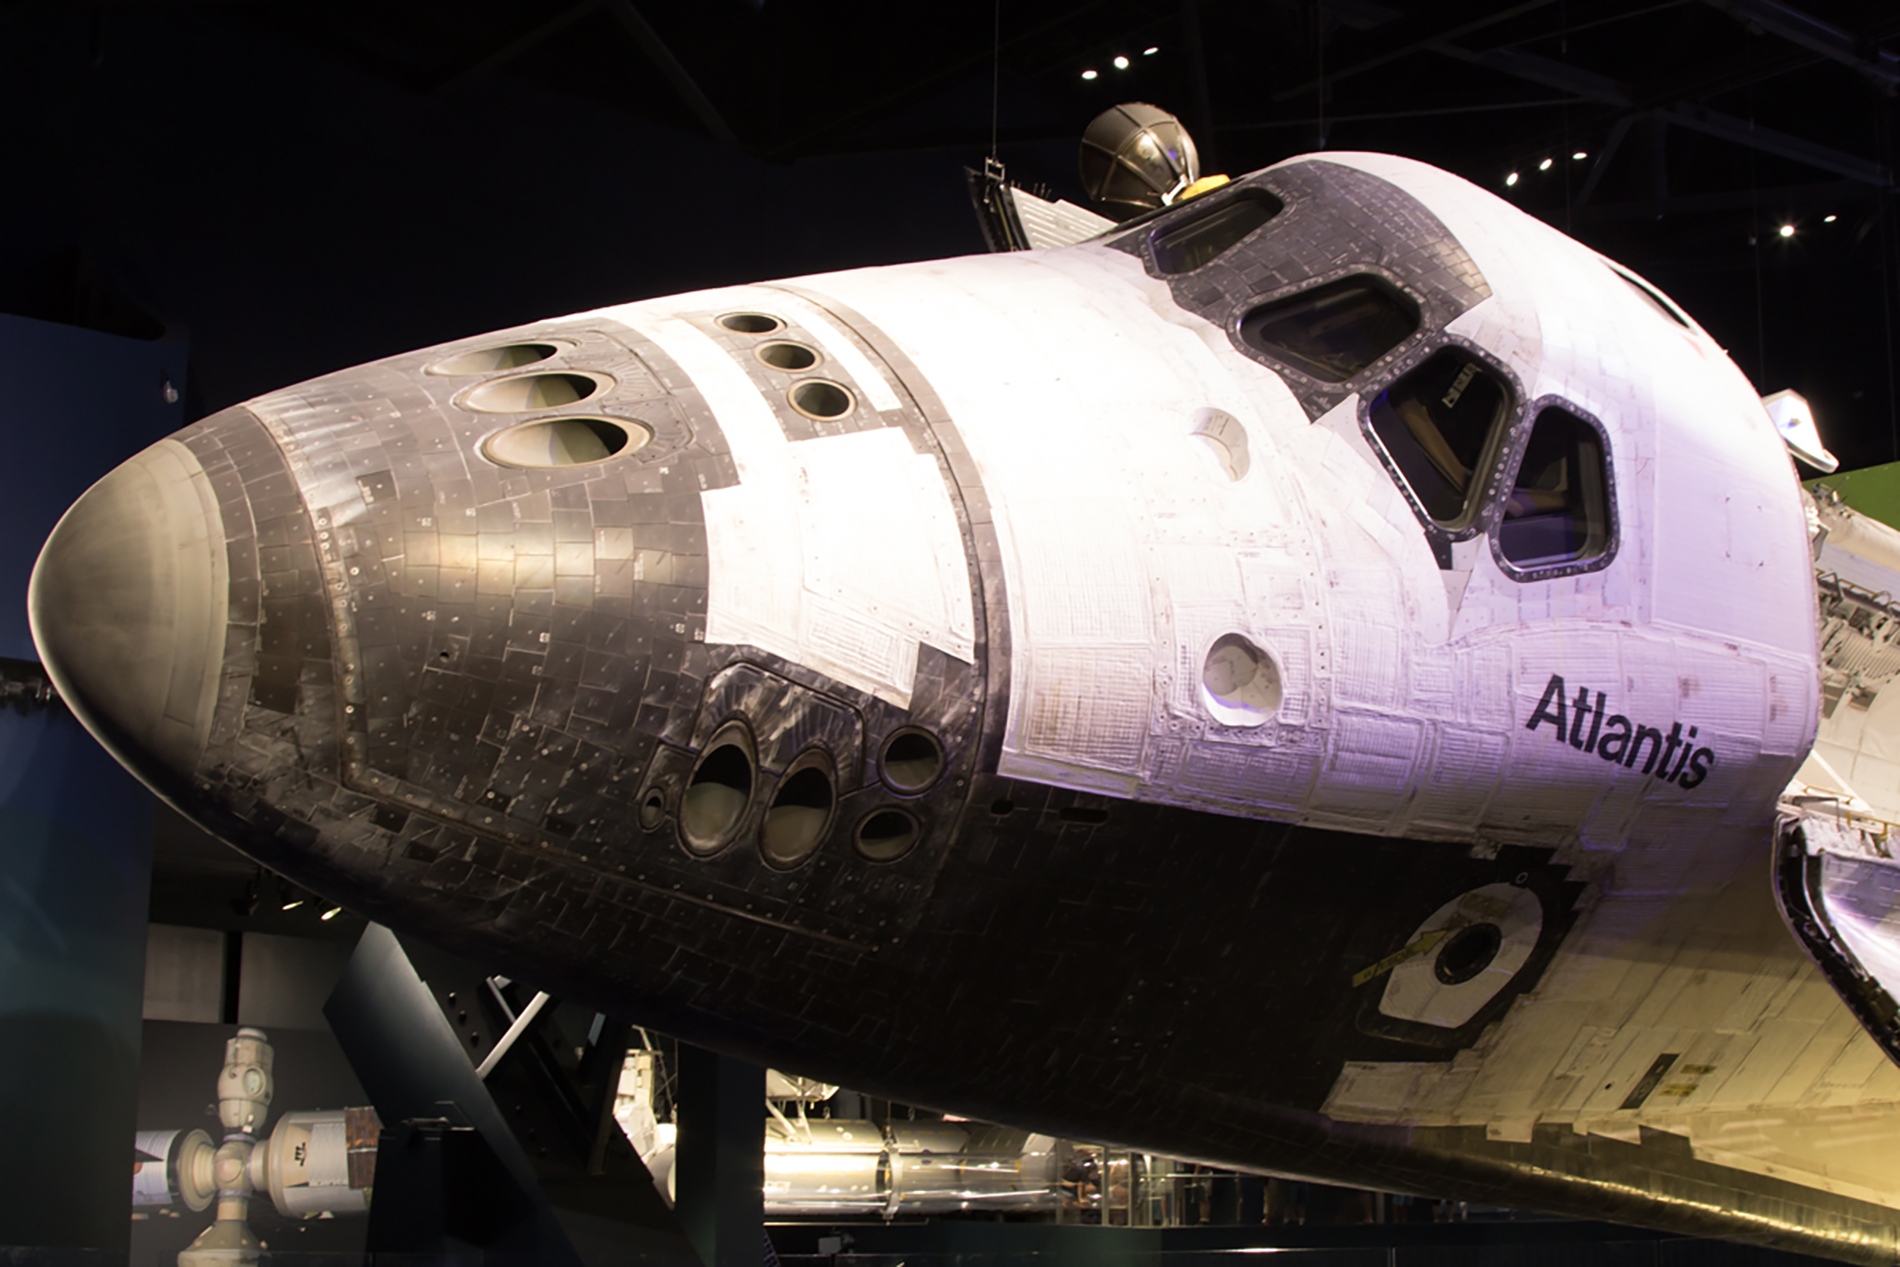
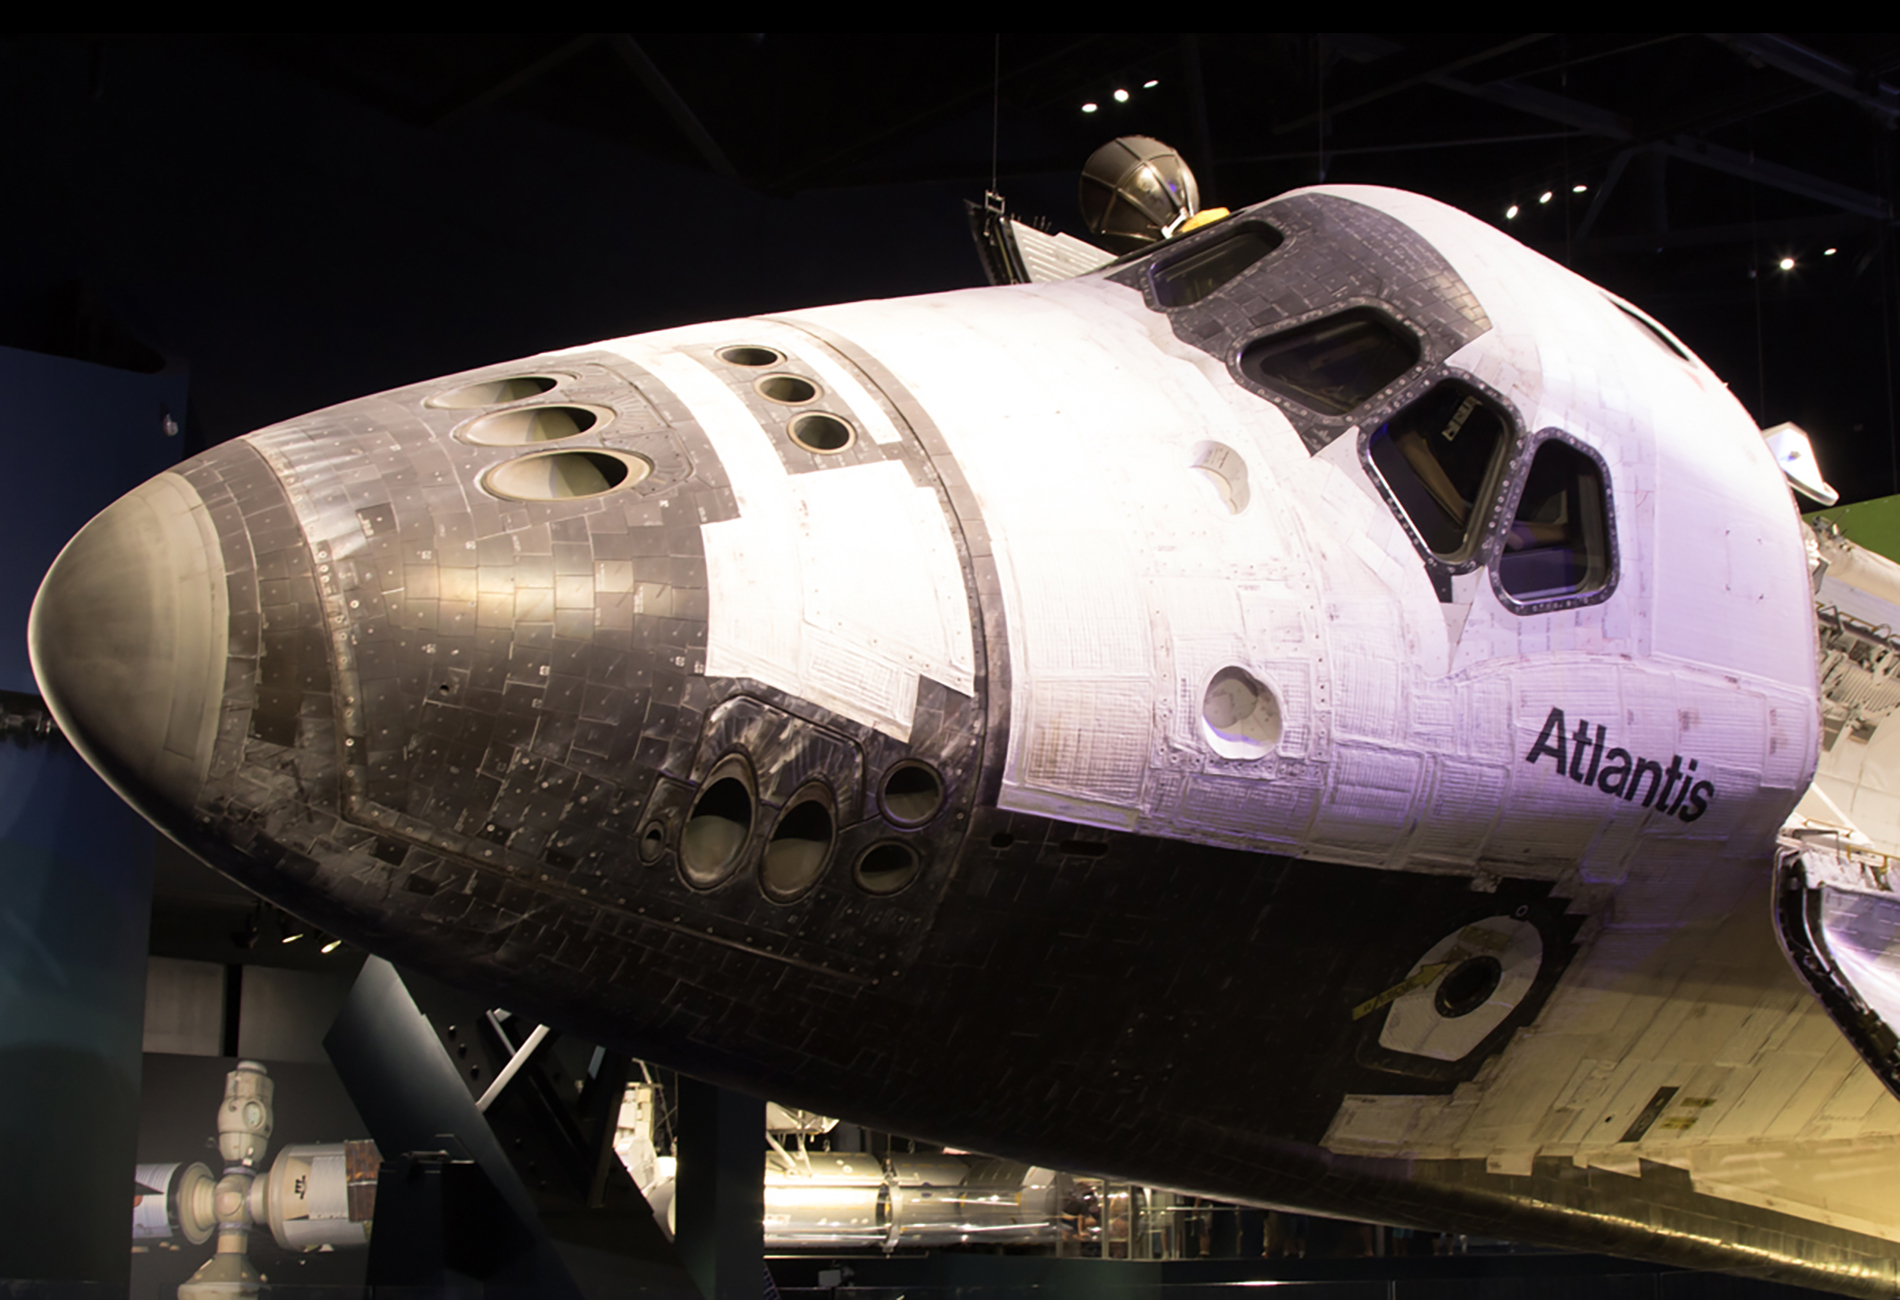
Commit before End Mentor meeting

diff --git a/index.html b/index.html
@@ -87,6 +87,9 @@
             <a href="https://apod.nasa.gov/apod/archivepix.html" class="paralink" target="blank">Click here</a> <i class='fa fa-external-link' aria-hidden='true'></i> to view all images archived since 1995.</p>
         </div>
       </div>
+      <div class="row" id="apod-error-row">
+        <div class="col-12 errorMessage" id="apod-error-message"></div>
+      </div>
       <div class="row">
         <div class="col-12 col-sm-4 mx-auto" id="apod_img_container">
           <img id="apod_img_id" class="apod-image mb-2" alt="Astronomy image of the day" />
@@ -99,11 +102,11 @@
           <h3 id="apod_title_vid"></h3>
         </div>
         <div class="col-12 col-sm-8 mx-auto apod-para">
-          <p class="text-faded mb-4">
+          <p class="text-faded mb-4 px-3 py-3">
             <span id="apod_date" class="apod-date"></span>
             <span id="copyright" class="apod-copyright"></span>
           </p>
-          <p class="text-faded pt-4" id="apod_explaination">...loading image details.</p>
+          <p class="text-faded px-3 py-3 apod-para-bg" id="apod_explaination">...loading image details.</p>
         </div>
       </div>
     </div>
@@ -119,7 +122,7 @@
           <p class="text-faded mb-4">EPIC provides information on the daily imagery collected by DSCOVR's Earth Polychromatic Imaging Camera (EPIC) instrument. Uniquely positioned at the Earth-Sun Lagrange point, EPIC provides full disc imagery of the Earth and captures unique
             perspectives of certain astronomical events such as lunar transits using a 2048x2048 pixel CCD (Charge Coupled Device) detector coupled to a 30-cm aperture Cassegrain telescope.</p>
           <p class="text-faded mb-4">You can read more about EPIC and the DSCOVR project on the NASA website: <a href="https://epic.gsfc.nasa.gov/epic" target="blank">Earth Polychromatic Imaging Camera</a> <i class='fa fa-external-link' aria-hidden='true'></i></p>
-          <p class="text-faded nm-4" id="DateHelp"><a id="epic-recent-link" class="epic-click" onclick="getMostRecentEpic()">View the most recent EPIC image received</a> <i class='fa fa-external-link' aria-hidden='true'></i><br> or enter a search date and click the search button<br> <span class="text-muted small">(the first acquired images began on 01 September 2015)</span>.</p>
+          <p class="text-faded nm-4" id="DateHelp"><a id="epic-recent-link" class="epic-click" onclick="getMostRecentEpic()">View the most recent EPIC image received</a> <i class='fa fa-external-link' aria-hidden='true'></i><br> or enter a search date and click the search button<br> <span class="text-faded small">(the first acquired images began on 01 September 2015)</span></p>
         </div>
       </div>
       <!-- Date row -->
@@ -223,18 +226,18 @@
           <form>
             <div class="form-group text-center">
               <label for="searchLibraryText">Enter a topic to search and choose the media type.</label>
-              <input type="text" class="form-control" id="searchLibraryText" placeholder="e.g. apollo, moon, europe...">
+              <input type="text" class="form-control" id="searchLibraryText" placeholder="e.g. apollo, moon, europe..." title="Enter a topic to search and choose the media type">
             </div>
             <div class="form-check ml-3">
-              <input class="form-check-input" type="radio" name="mediaType" id="image" value="image" checked>
+              <input class="form-check-input" type="radio" name="mediaType" id="image" value="image" title="image" checked>
               <label class="form-check-label" for="image">Image</label>
             </div>
             <div class="form-check ml-3">
-              <input class="form-check-input" type="radio" name="mediaType" id="video" value="video">
+              <input class="form-check-input" type="radio" name="mediaType" id="video" value="video" title="video">
               <label class="form-check-label" for="video">Video</label>
             </div>
             <div class="form-check ml-3">
-              <input class="form-check-input" type="radio" name="mediaType" id="audio" value="audio">
+              <input class="form-check-input" type="radio" name="mediaType" id="audio" value="audio" title="audio">
               <label class="form-check-label" for="video">Audio</label>
             </div>
             <!-- error message -->
@@ -245,10 +248,10 @@
       <!-- Search NASA button -->
       <div class="row">
         <div class="col-12 col-md-6 mx-auto mt-3 text-center">
-          <button type="button" class="btn btn-primary btn-xl" onclick="getQueryText()">Search NASA</button>
+          <button type="button" class="btn btn-primary btn-xl" onclick="getQueryText()" id="search-nasa-button" title="Search Nasa">Search NASA</button>
         </div>
         <div class="col-12 col-md-6 mx-auto mt-3 text-center" id="clearResultsDiv">
-          <button type="button" class="btn btn-primary btn-xl" onclick="clearLibraryResults()">Clear Results</button>
+          <button type="button" class="btn btn-primary btn-xl" onclick="clearLibraryResults()" title="Clear Results">Clear Results</button>
         </div>
       </div>
     </div>
@@ -347,19 +350,19 @@
       </div>
       <div class="row">
         <div class="col-4 col-lg-2 ml-auto text-center">
-          <a href="https://www.nasa.gov/" target="blank" tooltip="NASA website"><i class="fa fa-external-link fa-3x" aria-hidden="true"></i></a>
+          <a href="https://www.nasa.gov/" target="blank" title="NASA website"><i class="fa fa-external-link fa-3x" aria-hidden="true"></i></a>
         </div>
         <div class="col-4 col-lg-2 mr-auto text-center">
-          <a href="https://www.instagram.com/nasa/?hl=en" tooltip="NASA on Instagram"><i class="fa fa-instagram fa-3x" aria-hidden="true"></i></a>
+          <a href="https://www.instagram.com/nasa/?hl=en" title="NASA on Instagram"><i class="fa fa-instagram fa-3x" aria-hidden="true"></i></a>
         </div>
         <div class="col-4 col-lg-2 mr-auto text-center">
-          <a href="https://twitter.com/NASA" tooltip="NASA on Twitter"><i class="fa fa-twitter fa-3x" aria-hidden="true"></i></a>
+          <a href="https://twitter.com/NASA" title="NASA on Twitter"><i class="fa fa-twitter fa-3x" aria-hidden="true"></i></a>
         </div>
         <div class="col-6 col-lg-2 mr-auto text-center mt-4">
-          <a href="https://www.youtube.com/channel/UCLA_DiR1FfKNvjuUpBHmylQ" tooltip="NASA on YouTube"><i class="fa fa-youtube fa-3x" aria-hidden="true"></i></a>
+          <a href="https://www.youtube.com/channel/UCLA_DiR1FfKNvjuUpBHmylQ" title="NASA on YouTube"><i class="fa fa-youtube fa-3x" aria-hidden="true"></i></a>
         </div>
         <div class="col-6 col-lg-2 mr-auto text-center mt-4">
-          <a href="https://www.facebook.com/NASA/" tooltip="NASA on Facebook"><i class="fa fa-facebook-official fa-3x" aria-hidden="true"></i></a>
+          <a href="https://www.facebook.com/NASA/" title="NASA on Facebook"><i class="fa fa-facebook-official fa-3x" aria-hidden="true"></i></a>
         </div>
       </div>
     </div>
@@ -411,6 +414,20 @@
   <script src="assets/js/nasaAPI-epic.js"></script>
   <script src="assets/js/nasaAPI-library.js"></script>
   <script src="assets/js/nasaAPI-data.js"></script>
+
+  <script type="text/javascript">
+  $(document).ready(function(){
+    var input = document.getElementById("searchLibraryText");
+    input.addEventListener("keyup", function(event) {
+      event.preventDefault();
+      if (event.keyCode === 13) {
+        console.log("fjefiojfiehf");
+        document.getElementById("search-nasa-button").click();
+      }
+    });
+  });
+  </script>
+
 </body>
 
 </html>

diff --git a/assets/css/mainStyles.css b/assets/css/mainStyles.css
@@ -166,7 +166,7 @@ header.intro {
   padding-top: 10rem;
   padding-bottom: calc(10rem - 56px);
   background-image: url("../img/atlantis.jpg");
-  background-position: center center;
+  background-position: top center;
   -webkit-background-size: cover;
   -moz-background-size: cover;
   -o-background-size: cover;
@@ -210,8 +210,9 @@ header.intro {
   #apodSection.apod .apod-date {
     float: left; }
   #apodSection.apod .apod-para {
-    background-color: rgba(0, 18, 52, 0.3);
     clear: both; }
+  #apodSection.apod .apod-para-bg {
+    background-color: rgba(0, 18, 52, 0.3); }
   #apodSection.apod #apod_vid_id {
     border: 0; }
   #apodSection.apod .video-container {
@@ -228,6 +229,8 @@ header.intro {
     left: 25%;
     width: 50%;
     height: 100%; }
+  #apodSection.apod #apod-error-row {
+    display: none; }
   @media (min-width: 1200px) {
     #apodSection.apod h1 {
       font-size: 3.5rem; } }
@@ -295,9 +298,13 @@ header.intro {
 #libraryResults p {
   font-size: 0.8rem;
   line-height: 1.2rem; }
-#libraryResults div {
+#libraryResults div.row {
   margin-top: 10px;
   padding-top: 10px; }
+#libraryResults div {
+  padding-top: 10px;
+  overflow: hidden;
+  margin-bottom: 10px; }
 #libraryResults img {
   width: 80px;
   max-width: 80px; }

diff --git a/assets/js/nasaAPI-apod.js b/assets/js/nasaAPI-apod.js
@@ -28,8 +28,14 @@ $.ajax({
         var varDateString = splitDate(result.date, 1); //Show date of image with Month name. 1 = get Month name
 
         $("#apod_date").text(varDateString.day + " " + varDateString.month + " " + varDateString.year);
-    }
+    },
+    error: function(XMLHttpRequest, textStatus, errorThrown) { 
+        $("#apod_img_container").hide();
+        $("#apod_vid_container").hide();
+        $(".apod-para").hide();
+        $("#apod-error-row").css("display", "block")
+        $("#apod-error-message").html("There was a problem connecting to NASA Astronomy Picture of the Day. Please try again later.");
+    } 
 });
 
 // END APOD ===================================================================================================================== //
-

diff --git a/assets/js/nasaAPI-library.js b/assets/js/nasaAPI-library.js
@@ -14,6 +14,7 @@ var varLastPageUrl; // variable for holding the last page
 var linkToAudioJson;
 var linkToVideoJson;
 
+
 // Function called from Search button
 // Values received from html form and validated
 function getQueryText() {
@@ -148,7 +149,6 @@ function getLibraryResultsDataImage(queryResponseData, varMediaType) {
             document.getElementById('libraryResultsItem' + i).classList.add('oddColour');
         }
     });
-
 }
 
 // Get data items from API result - Audio

diff --git a/scss/apod.scss b/scss/apod.scss
@@ -22,8 +22,10 @@
     float: left;
   }
   .apod-para {
-    background-color: $fadedbkg-03;
     clear: both;
+  }
+  .apod-para-bg {
+    background-color: $fadedbkg-03;
   }
   #apod_vid_id {
     border:0;
@@ -43,6 +45,9 @@
     left: 25%;
     width: 50%;
     height: 100%;
+  }
+  #apod-error-row {
+    display:none;
   }
   @media (min-width: 1200px) {
     h1 {

diff --git a/scss/library.scss b/scss/library.scss
@@ -12,9 +12,14 @@
         font-size: 0.8rem;
         line-height: 1.2rem;
     }
-    div {
+    div.row {
         margin-top: 10px;
         padding-top: 10px;
+    }
+    div {
+        padding-top: 10px;
+        overflow: hidden;
+        margin-bottom: 10px;
     }
     img {
         width: 80px;

diff --git a/scss/intro.scss b/scss/intro.scss
@@ -3,7 +3,7 @@ header.intro {
   padding-top: 10rem;
   padding-bottom: calc(10rem - 56px);
   background-image: url('../img/atlantis.jpg');
-  background-position: center center;
+  background-position: top center;
   @include background-cover;
   h1 {
     font-size: 2rem;

diff --git a/README.md b/README.md
@@ -15,7 +15,7 @@ Semantic HTML5 elements are used throughout to structure the html.
 4.	**Make sure your site is as responsive as possible. You can test this by checking the site on different screen sizes and browsers. 
 Please note that if you are building a data dashboard, only your chart containers are expected to be responsive. Charts using D3.js are not responsive as they are designed for desktop or large-screen viewing.**<br>
 The site has been built to be as responsive as possible. Please see the [Testing](#testing) section for further details.
-5.	**We advise that you write down user stories and create wireframes/mockups before embarking on full-blown development.**<br>
+5.	**We advise that you write down user stories and create wireframes/mock-ups before embarking on full-blown development.**<br>
 User stories and wireframes are provided in the [Scenarios](#scenarios) section and the [Wireframes](#wireframes) section.
 6.	**The site can also make use of CSS frameworks such as Bootstrap, just make sure you maintain a clear separation between the library code and your code.**<br>
 The page is created using HTML5 and CSS3, provided by the Bootstrap Framework 4. 
@@ -47,6 +47,7 @@ GitHub Pages was used to host the final SPA. See [Deployment](#deployment) secti
     *   [Project Charter](#charter)
     *   [Website development Roadmap](#roadmap)
     *   [Strategy Trade-off](#trade)
+    *   [Defensive Design](#def)
 *   [Scope Plane](#scope)
     *   [Note about FETCH](#fetchnote)
     *   [Scenarios](#scenarios)
@@ -84,7 +85,7 @@ GitHub Pages was used to host the final SPA. See [Deployment](#deployment) secti
             *   [nasaAPI-data.js](#jsdata)
             *   [helperTools.js](#jshelper)
         *   [Testing](#testing)
-            *   [Development Testing](#devtesting)
+            *   [Development/Defensive Design Testing](#devtesting)
             *   [Ongoing Testing](#ongoing)
             *   [Usability Testing](#usability)
             *   [Final Testing](#final)
@@ -144,6 +145,25 @@ The UXD will be driven by the API data and user needs.
 |Graph|Opportunity Feasible?|
 |:---|:---|
 |![Trade off graph](ReadMe_Images/graph.jpg)|Feasible for initial release <ul><li>Create Online Presence</li><li>Increase visitor numbers</li><li>Present Select Data</li></ul>Features for future releases<ul><li>Present all NASA data via API</li><li>NEO WS</li></ul>
+
+[Top of page](#topofpage)
+<a name="def"></a>
+## Defensive Design
+Defensive design for the Web usually focuses on the most common points of failure: forms, search, the address bar and server problems
+* it employs validation to check for mistakes before they frustrate the site user,
+* it expands available options based on the user’s implied intent,
+* it protects site visitors from server errors and broken links with informative messages and
+* it assists the user before mistakes happen.
+
+For this SPA all API calls in the JS files will have a message to users if the connection to the API fails for any reason.
+Users will be told there was a network/connection error and to try again later.
+
+If users fail to enter text or a date for inputs fields before clicking a search button, they will be informed that text/date are required.
+
+If users query text fails to return any search results, users will be informed that there were no results for that search query.
+
+
+
 
 [Top of page](#topofpage)
 <a name="scope"></a>
@@ -508,16 +528,22 @@ However, the site was also tested using Firefox and Internet Explorer.
 *   CSS was validated using the **CSS Validation Service** provided by The World Wide Web Consortium (W3C): https://jigsaw.w3.org/css-validator/
 
 ##### During development:
-* Div’s had vibrant background colours so that the developer was easily able to identify them
+* Console.log was used extensively for viewing returned data and testing. 
+* Div’s had vibrant background colours so that the developer was easily able to identify them.
 * Each change was viewed in a chrome browser and tested using developer tools at full width resolution and using a variety of device emulators; Galaxy SIII, Galaxy 5, Laptop touch screen, iPhone 5/SE, iPhone 6/7/8, iPhone 6/7/8 Plus, iPhone X, iPad.
 * emote debugging using Android, Windows OS and Chrome Dev Tools was used to test each new functionality and new/updated page.
-* The SPA was audited using Chrome Dev Tools Audit functionality
+* The SPA was audited using Chrome Dev Tools Audit functionality.
 
 [Top of page](#topofpage)
 
 <a name="devtesting"></a>
-#### Development Testing
+#### Development/Defensive Design Testing
 Testing was carried out continuously while developing the SPA. Each input was tested for empty values and checked for zero results.
+
+As per the [Defensive Design](#def) Strategy described in the Strategy Plan, all form inputs are checked for empty values. Users are messaged if they click a search button without providing text or a date.
+Users are also informed by an on-screen text if their search returns no results. 
+Users are left in no doubt what is required of them, and if their search was unsuccessful.
+
 
 |Error Catch| |
 |:---|:---|
